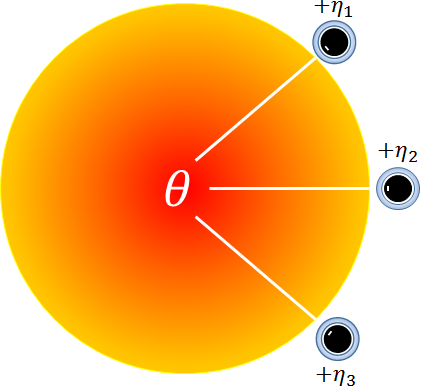
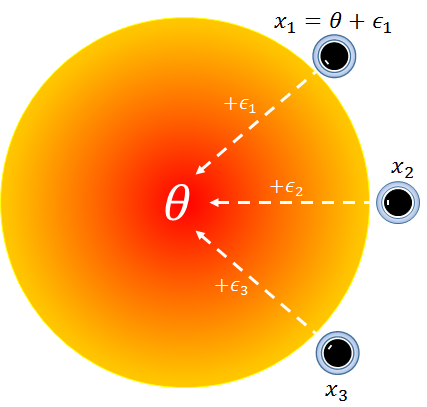
Added some more paragraphs on global games setup.

diff --git a/RSS_2015/main.tex b/RSS_2015/main.tex
@@ -2,7 +2,7 @@
 %2345678901234567890123456789012345678901234567890123456789012345678901234567890
 %        1         2         3         4         5         6         7         8
 
-\documentclass[conference]{IEEETran}
+\documentclass[conference]{IEEEtran}
 \usepackage{times}
 
 % Subfiles package
@@ -82,67 +82,59 @@ Abstract goes here\ldots
 \IEEEpeerreviewmaketitle
 
 %%%%%%%%%%%%%%%%%%%%%%%%%%%%%%%%%%%%%%%%%%%%%%%%%%%%%%%%%%%%%%%%%%%%%%%%%%%%%%%%
-\section{Introduction}
+\section{Introduction}\label{sec:intro}
 Collaborative tasks are an important set of scenarios often studied in the field of swarm robotics. Many of the tasks we envision teams of robots performing, such as object transport, oil-spill containment, firefighting, and cooperative surveillance fall under this broad umbrella of collaborative tasks. While considerable work has been done in studying the specific details of particular tasks in the above list, the more general question of estimating a team size appropriate for the size of the task remains unanswered. It is generally assumed that a robot team size is hard-coded beforehand by a domain expert before a collaborative task is attempted by the robots. But, as is often the case with teams of humans attempting a collaborative task, this number not easy to guess, e.g., When trying to lift and move a heavy grand-piano, it is difficult to estimate how many people will be required. A number of factors such as the mass of the piano and the length and complexity of the path (perhaps involving staircases) come into play when deciding this number and a range of team sizes may accomplish this task to varying degrees of success.
-
-The goal of this paper is to model and analyze tasks that have the property of ``concurrent benefit''. We define concurrent benefit as an attribute of a collaborative task wherein the exact number of agents required to successfully complete the task is unknown and varies with time but the probability of success depends, non-linearly, on the average number of agents assigned to that task. For example, in a firefighting scenario a single robot trying to contain a large fire will almost definitely be unsuccessful on its own (and will waste water in trying) but a group of robots within a certain group size range may be able to contain the flames to a reasonable level of success. This measure of success is related non-linearly to the group size, i.e. where 5 or even 10 robots have a negligible effect on containing the fire, perhaps 12 or more very quickly become capable of succeeding in the task. The group size to payoff ratio is described by a utility function that is itself sigmoid in nature, as seen in Fig. \ref{fig:sigmoid}.
-
-\begin{figure}[!ht]
-\centering\includegraphics[width=\columnwidth]{../figures/sigmoid1.png}
-\centering\caption{}\label{fig:sigmoid}
-\end{figure}
 
 \begin{figure*}[!ht]
 \centering\includegraphics[width=\textwidth]{../figures/dropletfire.png}
 \centering\caption{}\label{fig:dropletfire}
 \end{figure*}
 
-\section{Global Games: A Brief Overview}
+The goal of this paper is to model and analyze tasks that have the property of ``concurrent benefit'' using the concept of global games from the field of game theory. We define concurrent benefit as an attribute of a collaborative task wherein the exact number of agents required to successfully complete the task is unknown and varies with time but the probability of success depends, non-linearly, on the average number of agents assigned to that task. For example, in a firefighting scenario (see Fig.~\ref{fig:dropletfire})a single robot trying to contain a large fire will almost definitely be unsuccessful on its own (and will waste water in trying) but a group of robots within a certain group size range may be able to contain the flames to a reasonable level of success. This measure of success is related non-linearly to the group size, i.e. where 5 or even 10 robots have a negligible effect on containing the fire, perhaps 12 or more very quickly become capable of succeeding in the task. The group size to payoff ratio is described by a utility function that is itself sigmoid in nature, as seen in Fig. \ref{fig:sigmoid}.
 
+\begin{figure}[!ht]
+\centering\includegraphics[width=\columnwidth]{../figures/sigmoid1.png}
+\centering\caption{}\label{fig:sigmoid}
+\end{figure}
 
+Such tasks can be modeled as a global game with multiple players/agents. All tasks take place in a large operational area. Tasks or collaboration sites appear within the operational area at random. All agents are dispersed uniformly and at random within the operational area. The reader should note that the method of searching for a collaboration site is arbitrarily chosen for the purposes of the model discussed in this paper; in practice, any search pattern or algorithm that best fits the scenario may be chosen without affecting the conclusions provided by our model. Once an agent arrives at a collaboration site, it independently makes an estimate, $\tau$, for the group size required to successfully complete the task at that site. This estimate is derived from an estimation function, $\Xi(\cdot)$, that takes in a noisy signal, $x$, as input. $\Xi(x)$ quantifies the size and complexity of the presented task using the robot's sensors and internal state information. This is analogous to a human assessing a situation using their senses and other domain specific data provided to him. The reason for using an estimation function is discussed in Section\ref{sec:ggresults} of this paper.
 
-\section{Collaboration Model}
-We generalize a multi-agent collaboration scenario with the property of concurrent benefit as follows.
-
-All tasks take place in a large operational area. Tasks or collaboration sites appear within the operational area at random---but not necessarily uniformly spaced---locations. All agents are dispersed uniformly and at random within the operational area. The reader should note that the method of searching for a collaboration site is arbitrarily chosen for the purposes of the model discussed in this paper; in practice, any search pattern or algorithm that best fits the scenario may be chosen without affecting the conclusions provided by our model. Once an agent arrives at a collaboration site, it independently makes an estimate, $\tau$, for the group size required to successfully complete the task at that site. Agents at a task site employ a threshold based voting policy on whether or not to begin a collaborative action at that task site. The threshold function takes as input, an agent's estimate for the number of robots currently at the same collaboration site.
-
-Estimating the required group size for a task is a multi-step process. We assume that all agents are pre-programmed with an estimation function $\eta(\sigma)$, where $\sigma$ is a collection of sensor readings and internal parameters.
-
-\begin{figure}
+\begin{figure}[!ht]
 \centering\includegraphics[width=\columnwidth]{../figures/globalgamesetup.png}
 \centering\caption{}\label{fig:ggsetup}
 \end{figure}
 
-The signal received by an agent is,
+The noisy signal $x$ is a sum of two terms, $x = \theta + \epsilon$, where $\theta$ is considered the \emph{ground truth} signal and $\epsilon$ is a Gaussian noise term with mean $0$ and standard deviation $\sigma$, as seen in Fig.~\ref{fig:ggsetup}. This setup helps situate this multi-robot collaboration model in a global game setting. The \emph{player} terminology often used in game theory literature maps directly to robots (or agents) in swarm robotics. Each player/agent makes independent algorithmic decisions and overall system equilibrium conditions are measured via the set of joint actions between agents. A brief overview of the theory of global games is provided in Section \ref{sec:ggoverview}.
 
-\begin{equation}
-	x_i = \theta + \epsilon_i
-\end{equation}
+\subsection{Related Work}\label{subsec:rw}
+The proposed algorithm and model is inspired from task allocation in biological systems such as ant colonies \cite{Bonabeau1999,Krieger2000}. We employ the use of a response threshold sigmoid function that probabilistically triggers the beginning of a collaboration step between robots at the same collaboration site. We study this approach via macroscopic models and microscopic simulations. The sigmoid function used in our model is commonly referred to as the Logistic function and has control parameters that allow us to alter its offset and slope. We study the effects that changing these parameters has on the system-wide behavior of the robot swarm. We also draw comparisons between this collaboration model and similar models used by Lerman et al. for the \emph{n}-robot stick pulling experiment \cite{Lerman2001} and discuss situations where it is beneficial to use one model over the other.
 
+We wish to extend the stick pulling model of constant group sizes of robots to include a more general case of collaboration tasks that involve only approximate robot group sizes for successful collaboration. More specifically, we deal with tasks that have the property of ``concurrent benefit'' where single agents must wait for a group---with a range of permissible size---to form at their collaboration site before being able to collectively begin the task and complete it successfully. Examples of such tasks include fire containment, collective transport \cite{sugawara2012}, pattern recognition \cite{beni1993swarm}, real-time mapping of oil spills \cite{beni2005swarm}, determining coverage area of forest fires \cite{krishnanand2006glowworm}, and many others that require a subset of a swarm to coalesce and tackle a task collaboratively. 
 
-\section{Results from Game Theory}
-\subsection{Case I: Agents Not Sharing State Information}
-
-\subsection{Case II: Agents Sharing State Information Perfectly}
-
-\subsection{Case III: Agents Sharing State Information Imperfectly}
-
-\subsection{Imperfect Knowledge of Group Size}
+\section{Global Games: A Brief Overview}\label{sec:ggoverview}
 
 
 
 
-\section{Experimental Results}
+\section{Results from Game Theory}\label{sec:ggresults}
+
+
+
+\section{Experiment Setup}\label{sec:expsetup}
+We ran collaborative task completion experiments with the \emph{Droplet} swarm robot platform to validate results presented in the previous section. The experiment employs they robots' overhead RGB sensors to simulate a fire that is projected down onto the arena using a standard off-the-shelf projector. The goal of the experiment is to have the robots collaboratively put out these projected fires by congregating at the perimeter of the fire and turning on their blue LEDs together. The projected fires increase in size and intensity (indicated by changing color from the red to the yellow spectrum) with time.
+
+
+\section{Experimental Results}\label{sec:expresults}
 
 
 
 
-\section{Discussion}
+\section{Discussion}\label{sec:disc}
 
 
 
 
-\section{Conclusion}
+\section{Conclusion}\label{sec:conc}
 
 
 
@@ -169,6 +161,5 @@ The signal received by an agent is,
 %%%%%%%%%%%%%%%%%%%%%%%%%%%%%%%%%%%%%%%%%%%%%%%%%%%%%%%%%%%%%%%%%%%%%%%%%%%%%%%%
 %%%%%%%%%   The Bibliography, if any   %%%%%%%%%
 \bibliographystyle{plainnat}		% or "siam", or "alpha", etc.
-%\nocite{*}						% list all refs in database, cited or not
 \bibliography{../refworks}
 \end{document}
